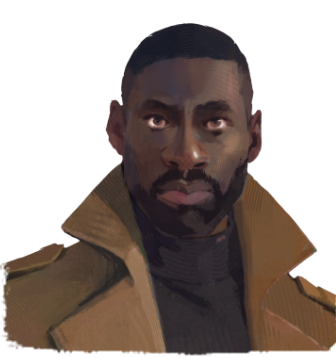
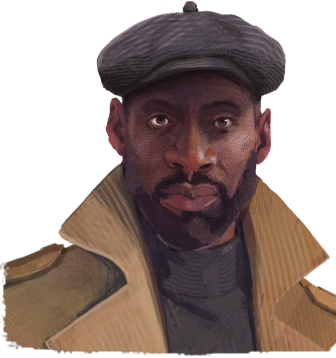
Writing Pass + New Assane Art

diff --git a/js/content.js b/js/content.js
@@ -36,12 +36,12 @@
   var LINES = {
     wife:      'Give my best to your wife — she still putting up with these hours?',
     kids:      'Kids must be getting big. How old is the eldest now?',
-    promotion: 'They passed you over again, did they. Unbelievable.',
-    football:  'Rough result at the weekend. I could not watch the second half.',
-    study:     'You are still doing the night classes? That is serious discipline.',
-    car:       'That is your car in the bay, no? They are ticketing it as we speak.',
+    promotion: 'They passed you over again, did they? Unbelievable.',
+    football:  'Rough result at the game this weekend. The second half was just unwatchable.',
+    study:     'Are you still doing the night classes? That takes serious discipline.',
+    car:       'The car in the bay is yours, no? They are ticketing it as we speak.',
     coffee:    'The machine on three is broken again, by the way. Thought you should know.',
-    boss:      'Between us — I do not know how you can stand the floor manager.'
+    boss:      'Between us — I don\'t know how you can stand the floor manager.'
   };
   var TOPICS = Object.keys(LINES);
 
@@ -49,11 +49,11 @@
      three fixed clues, three questions, three answer choices per question,
      and the correct answer's one-based number (1, 2, or 3). This data does
      not use LINES, DIRT, or the regular conversation topics. */
-  var FIRST_BEAM_TUTORIAL_CLUES = ['Very thoughtful toward newcomers.', 'Likes having their work noticed', 'Doesn\'t like dawdling on the job.'];
+  var FIRST_BEAM_TUTORIAL_CLUES = ['Very thoughtful toward newcomers.', 'Likes having his work noticed', 'Doesn\'t like dawdling on the job.'];
   var FIRST_BEAM_TUTORIAL = [
     { question: 'The laser! Every single day I say it: check the manual, watch your step!', answers: ['I am in a hurry.', 'Sorry, sir! It is my first day.', 'Ever heard of pressure points?'], correct: 2 },
-    { question: 'Oh! The new guy! Yes yes, sorry about that. Read the manual and we\'ll get along just fine!', answers: ['Not really the reading type. I learn by doing.', 'You\'ve got beautiful eyes!', 'Of course, sir! I\'ve heard great things about your leadership. I\'ll read everyday!'], correct: 3 },
-    { question: 'Now that\'s what I like to hear! Alright, get moving!', answers: ['You see that new show that dropped on Netflix?', 'Where\'s the safe?', 'Yes sir! Excuse me.'], correct: 3 }
+    { question: 'Oh! The new guy! Yes, yes. Read the manual and we\'ll get along just fine.', answers: ['I\'m not the reading type. I learn by doing.', 'You\'ve got beautiful eyes!', 'Of course, sir! I\'ve heard of your leadership. I\'ll read it every day!'], correct: 3 },
+    { question: 'Now that\'s what I like to hear! Alright, get moving.', answers: ['You see that new show that dropped on Netflix?', 'Where\'s the safe?', 'Yes, sir! Excuse me.'], correct: 3 }
   ];
 
   /* The opening laser/talk lesson is free. Lower A/B/C's suspicion limits by
@@ -78,8 +78,8 @@
      Past the second line La Tchatche allows one slip instead of two: a man
      who has been told to look for somebody is not in a chatting mood. */
   var ALERT = [
-    { at: 40, name: 'ATTENTIVE', line: 'A radio crackles somewhere. <em>They have been told to keep their eyes open.</em>' },
-    { at: 70, name: 'ALERT',     line: 'Doors, all over the building. <em>They are looking for somebody.</em>' }
+    { at: 40, name: 'ATTENTIVE', line: 'A radio crackles somewhere. <em>They\'ve been told to keep their eyes open.</em>' },
+    { at: 70, name: 'ALERT',     line: 'Doors lock, all over the building. <em>They\'re looking for someone.</em>' }
   ];
 
   /* WHAT BENJAMIN CAN DO FROM THE VAN.
@@ -92,20 +92,20 @@
      because nothing in this build happens between his inputs. */
   var LEVER = {
     lights: { id: 'lights', icon: 'bulb', name: 'CUT THE LIGHTS', cost: 8,  turns: 3, uses: 1,
-              blurb: 'For three moves, every guard sees only the squares beside him.' },
+              blurb: 'For three moves, every guard sees only adjacent squares.' },
     /* THE BEAMS ARE EARNED, AND THEN THEY ARE A RHYTHM.
        Locked until LE BUREAU is cracked (on a floor that has one), and then
        not a single pull but a lever on a cooldown: once the beams come back
        on, the van needs four of Assane's moves before it can drop them again. */
     laser:  { id: 'laser',  icon: 'beam', name: 'CUT THE LASERS ', cost: 10, turns: 8, uses: 1,
               cooldown: 4, needs: 'bureau',
-              blurb: 'The beams drop for eight moves. Assane can cross one without them, but it sets off the alarm.' },
+              blurb: 'The beams drop for eight moves. Assane can cross one without this, but it sets off the alarm.' },
     /* Never permanent. A looped camera shows an empty corridor for a few moves
        and then it is a camera again — so a camera that cannot be walked
        around is a camera the two of them have to time together. */
     camera: { id: 'camera', icon: 'eye',  name: 'LOOP A CAMERA',  cost: 4,  turns: 4, uses: 3,
               needs: 'bureau',
-              blurb: 'The box nearest Assane sees nothing for four moves, then it is back.' }
+              blurb: 'The camera nearest Assane sees nothing for four moves, then it\'s back.' }
   };
 
   /* THE PRESSURE.
@@ -165,10 +165,10 @@
     id: 'veille',
     HATCH: 'door',
     venue: 'HÔTEL DES VENTES · NIGHT BEFORE',
-    contract: 'CONTRACT No.1 — NIGHT BEFORE AUCTION',
+    contract: 'CONTRACT No.1',
     target: 'Lot 12 · illuminated manuscript',
     venueArt: 'venue-establishing',
-    blurb: 'You need a paper inside the vault. Its room is released from the officer security desk. Find a way out.',
+    blurb: 'You need a paper inside the vault. Its room lock is released from the security desk. The hard part is finding a way out.',
 
     /* THE FRAME. A wall column down the EAST edge and a wall row along the
        bottom that no route touches: the hatch sits in the east wall, so the
@@ -276,7 +276,7 @@
     /* THE FIRST BEAM ASKS BEFORE IT RINGS. The first step into a live beam on
        this contract does not happen: the television says what a beam is, and
        the same step again commits. Once a run. */
-    BEAM_CARD: { title: 'THE BEAMS', line: 'Cross one and the alarm goes — someone will come to see who did it. Step again to cross.' },
+    BEAM_CARD: { title: 'THE BEAMS', line: 'Cross a laser beam and the alarm goes off — someone will come looking. Step again to cross.' },
     /* A separate TV card shown when the Bureau is completed. Keep its copy
        independent from BEAM_CARD so the two messages can be edited separately. */
     BUREAU_CARD: { title: 'Security credentials acquired!', line: 'The van has unrestricted access to the security systems!' },
@@ -287,12 +287,12 @@
       { targets: ['exit'] }
     ],
     OBJ: {
-      cloak: 'The cloakroom is at the entrance. Get Assane into the right uniform before he crosses the staff gate.',
+      cloak: 'The cloakroom is at the entrance. Get Assane into uniform before he crosses the staff gate.',
       door:  'A padlocked gate between the cloakroom and the service passages. P1 has the keys; P2 knows which is which.',
       porte: 'A locked door beyond Storage. P1 has the keypad; P2 has the code.',
-      after: 'The manuscript is sealed in a vault beneath a live camera. Crack the safe, take the prize, and disappear through the unmarked exit.',
-      out:   'Assane has it and the monitors are dead. The plan shows no way out. Benjamin’s procedures might.',
-      dark:  'The power is gone. Assane still has his phone; Benjamin has the procedures — the way out is in them.'
+      after: 'The manuscript is sealed in a vault beneath a live camera. Crack the safe, take the prize, and disappear.',
+      out:   'Assane has the paper and the monitors are dead. The plan shows no way out. Benjamin’s procedures might.',
+      dark:  'The power is gone. Assane still has his phone; Benjamin has the procedures — the way out is in there.'
     },
     DOORS: [
       { x: 20,  y: 4,  locked: true,  mark: 'trident',  to: 'VAULT' },
@@ -303,7 +303,7 @@
       /* staff only: the padlock will not open for a man out of uniform, so
          the cloakroom is not optional on this contract */
       { id: 'grille',      x: 8,  y: 17, name: 'GATE',      icon: 'lock', needs: 'deguisement',
-        refuse: { title: 'STAFF ONLY', line: 'Assane isn’t in uniform. Someone would ask questions.' } },
+        refuse: { title: 'STAFF ONLY', line: 'Assane isn\'t in uniform. They\'d ask questions.' } },
       { id: 'deguisement', x: 4, y: 15, name: 'DISGUISE', icon: 'coat' },
         /* LA PORTE, at the north end of La Réserve: the keypad follows the
            beam and the posted guard. */
@@ -364,8 +364,8 @@
          be his alone for LE CLAVIER: the release code is the badge of the
          officer posted to the keypad's zone. */
       { badge: '2071', name: 'DELACROIX, Yann',   post: 'UPPER GALLERY', plate: '5530', kids: [] },
-      { badge: '1184', name: 'VIDAL, Nadia',      post: 'OFFICE',        plate: '1147', kids: [{ n: 'Théo', y: 2011 }] },
-      { badge: '5195', name: 'SANGLIER, Bruno',   post: 'KITCHENS',  plate: '9088', kids: [{ n: 'Inès', y: 2007 }, { n: 'Hugo', y: 2007 }] },
+      { badge: '1184', name: 'VIDAL, Nadia',      post: 'OFFICE',        plate: '1147', kids: [{ n: 'Théa', y: 2011 }] },
+      { badge: '5195', name: 'SANGLIER, Marie',   post: 'KITCHENS',  plate: '9088', kids: [{ n: 'Inès', y: 2007 }, { n: 'Hugo', y: 2007 }] },
       { badge: '6620', name: 'PARMENTIER, Odile', post: 'CLOAKROOM',  plate: '4472', kids: [{ n: 'Marc', y: 2003 }, { n: 'Julie', y: 2016 }] },
       { badge: '3308', name: 'KOFFI, Émile',      post: 'STORAGE',    plate: '3396', kids: [{ n: 'Awa', y: 2012 }, { n: 'Noé', y: 2005 }] }
     ],
@@ -400,17 +400,17 @@
     },
     DIRT: {
       '4412': [{ t: 'kids', s: 'Two daughters. Talks about them constantly.' },
-               { t: 'coffee', s: 'Fights with the machine on level three, daily.' },
-               { t: 'boss', s: 'Loathes the floor manager. Openly.' }],
+               { t: 'coffee', s: 'Fights with the machine on level three daily.' },
+               { t: 'boss', s: 'Loathes the floor manager.' }],
       '2071': [{ t: 'study', s: 'Night classes. Law. Second year.' },
                { t: 'car', s: 'Parks in the loading bay. Gets ticketed.' },
                { t: 'promotion', s: 'Applied for shift lead. Waiting to hear.' }],
       '3308': [{ t: 'football', s: 'Saint-Étienne football fan. Home and away.' },
                { t: 'boss', s: 'Covers for the floor manager. Constantly.' },
-               { t: 'coffee', s: 'Brings her own flask. Refuses the machine.' }],
+               { t: 'coffee', s: 'Entirely dependent on level three\'s coffee machine.' }],
       '5195': [{ t: 'wife', s: 'Married. Hélène. Twenty-two years.' },
                { t: 'promotion', s: 'Passed over for shift lead. Twice.' },
-               { t: 'football', s: 'Season ticket. Never misses.' }],
+               { t: 'football', s: 'Football season ticket. Never misses.' }],
       '6620': [{ t: 'car', s: 'New car. Will not stop mentioning it.' },
                { t: 'kids', s: 'A son at university, a daughter still small.' },
                { t: 'wife', s: 'Recently separated. Do not push it.' }],
@@ -472,14 +472,14 @@
       { k: 'ALERT LEVELS', v: 'Suspicion past 40: officers extend their rounds by one square. Past 70: by two, and anyone stopped is searched.' },
       { k: 'POWER FAILURE', steps: [
         'Cameras and lights drop, but laser beams stay armed. The <strong><u>service hatch in the kitchen</u></strong> (our escape route) also locks down.',
-        'Release code is the vehicle plate number of the guard posted there <strong><u>REVERSED</u></strong>.'
+        'Release code is the vehicle plate number of the guard posted there, <strong><u>REVERSED</u></strong>.'
       ] }
     ],
 
     BEATS: [
-      'Three floors, and each is worse than the one below.',
-      'The desk releases the vault that is under a camera.',
-      'The way out is not on the plan. Read the procedures.'
+      'A back door leads to storage leads to the gallery.',
+      'The desk releases the vault, but a camera is always watching.',
+      'The way out is not in the plan. Read the procedures.'
     ]
   };
 

diff --git a/js/p2.js b/js/p2.js
@@ -47,7 +47,7 @@
         el('div', { class: 'role' }, [
           el('div', { class: 'role__identity' }, [
             el('div', { class: 'role__job', text: 'THE BRAIN' }),
-            el('h2', { class: 'role__name', text: 'BENJAMIN' })
+            el('h2', { class: 'role__name', text: 'BENJAMIN FÉREL' })
           ]),
           el('div', { class: 'role__portrait' }, [U.artSlot('ui-new/portrait-benjamin')]),
           el('ul', { class: 'role__list' }, [
